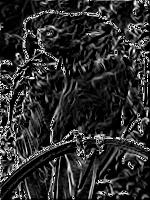
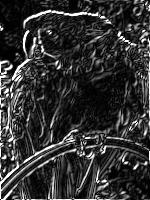
bug fix kernel with negative values

diff --git a/edge detect/edge_detect.py b/edge detect/edge_detect.py
@@ -4,18 +4,25 @@ import numpy as np
 
 assert(len(sys.argv) > 1), "Pass the name of the image as an argument"
 
-""" works only for grayscale images """
-""" edges are most visible in grayscale images """
-def getNewPixelValue(im, pixel_y, pixel_x, kernel):
-    pixel_val = 0
+"""
+works only for grayscale images
+edges are most visible in grayscale images
+"""
+def getNewPixelValue(im, pixel_y, pixel_x):
+    horiz = [[-1, -2, -1], [0, 0, 0], [1, 2, 1]]
+    vert = [[-1, 0, 1], [-2, 0, 2], [-1, 0, 1]]
+    horiz_edge = 0
+    vert_edge = 0
 
     for i in range(-1, 2, 1):
         for j in range(-1, 2, 1):
-            if pixel_x + j < 0 or pixel_y + i < 0:
-                pass
-            elif (pixel_x + j < im.shape[1] - 1 and pixel_y + i < im.shape[0] - 1):
-               pixel_val += im[pixel_y + i][pixel_x + j] * kernel[i + 1][j + 1]
-    return max(pixel_val, 0)
+            x = pixel_x + j
+            y = pixel_y + i
+            if x >= 0 and y >= 0 and x <= im.shape[1] - 1 and y <= im.shape[0] - 1:
+               horiz_edge += im[y][x] * horiz[i + 1][j + 1]
+               vert_edge += im[y][x] * vert[i + 1][j + 1]
+    newVal = abs(horiz_edge + vert_edge) / 2
+    return newVal if newVal <= 255 else 255
 
 
 im = Image.open(sys.argv[1])
@@ -26,10 +33,7 @@ blurred_im = np.empty(im_matrix.shape)
 
 for i in range(im_matrix.shape[0]):
     for j in range(im_matrix.shape[1]):
-        horiz = getNewPixelValue(im_matrix, i, j, [[-1, -2, -1], [0, 0, 0], [1, 2, 1]])
-        vert = getNewPixelValue(im_matrix, i, j, [[-1, 0, 1], [-2, 0, 2], [-1, 0, 1]])
-        blurred_im[i][j] = max(horiz, vert)
-        
+        blurred_im[i][j] = getNewPixelValue(im_matrix, i, j)
 
 output = Image.fromarray(np.uint8(blurred_im))
 output.show()

diff --git a/sharpen/sharpen.py b/sharpen/sharpen.py
@@ -5,17 +5,17 @@ import numpy as np
 assert(len(sys.argv) > 1), "Pass the name of the image as an argument"
 
 """ works only for grayscale images """
-def getNewPixelValue(im, pixel_y, pixel_x, kernel):
+def getNewPixelValue(im, pixel_y, pixel_x):
+    kernel = [[-1, -1, -1], [-1, 9, -1], [-1, -1, -1]]
     pixel_val = 0
 
     for i in range(-1, 2, 1):
         for j in range(-1, 2, 1):
-            if pixel_x + j < 0 or pixel_y + i < 0:
-                continue
-            if (max(pixel_x + j, im.shape[1] - 1) != pixel_x + j
-                and max(pixel_y + i, im.shape[0] - 1) != pixel_y + i):
-               pixel_val += im[pixel_y + i][pixel_x + j] * kernel[i + 1][j + 1]
-    return max(pixel_val, 0)
+            x = pixel_x + j
+            y = pixel_y + i
+            if x >= 0 and y >= 0 and x <= im.shape[1] - 1 and y <= im.shape[0] - 1:
+                pixel_val += im[y][x] * kernel[i + 1][j + 1]
+    return abs(pixel_val) if abs(pixel_val) <= 255 else 255
 
 
 im = Image.open(sys.argv[1])
@@ -26,9 +26,8 @@ blurred_im = np.empty(im_matrix.shape)
 
 for i in range(im_matrix.shape[0]):
     for j in range(im_matrix.shape[1]):
-        blurred_im[i][j] = getNewPixelValue(im_matrix, i, j, [[-1, -1, -1], [-1, 9, -1], [-1, -1, -1]])
+        blurred_im[i][j] = getNewPixelValue(im_matrix, i, j)
         
-
 output = Image.fromarray(np.uint8(blurred_im))
 output.show()
 output.save("output.jpg")

diff --git a/emboss/emboss.py b/emboss/emboss.py
@@ -5,16 +5,17 @@ import numpy as np
 assert(len(sys.argv) > 1), "Pass the name of the image as an argument"
 
 """ works only for grayscale images """
-def getNewPixelValue(im, pixel_y, pixel_x, kernel):
+def getNewPixelValue(im, pixel_y, pixel_x):
+    kernel = [[2, 0, 0], [0, -1, 0], [0, 0, -1]]
     pixel_val = 0
 
     for i in range(-1, 2, 1):
         for j in range(-1, 2, 1):
-            if pixel_x + j < 0 or pixel_y + i < 0:
-                pass
-            elif (pixel_x + j < im.shape[1] - 1 and pixel_y + i < im.shape[0] - 1):
-               pixel_val += im[pixel_y + i][pixel_x + j] * kernel[i + 1][j + 1]
-    return max(pixel_val, 0)
+            x = pixel_x + j
+            y = pixel_y + i
+            if x >= 0 and y >= 0 and x <= im.shape[1] - 1 and y <= im.shape[0] - 1:
+                pixel_val += im[y][x] * kernel[i + 1][j + 1]
+    return abs(pixel_val) if abs(pixel_val) <= 255 else 255
 
 
 im = Image.open(sys.argv[1])
@@ -25,9 +26,8 @@ blurred_im = np.empty(im_matrix.shape)
 
 for i in range(im_matrix.shape[0]):
     for j in range(im_matrix.shape[1]):
-        blurred_im[i][j] = getNewPixelValue(im_matrix, i, j, [[2, 0, 0], [0, -1, 0], [0, 0, -1]])
+        blurred_im[i][j] = getNewPixelValue(im_matrix, i, j)
         
-
 output = Image.fromarray(np.uint8(blurred_im))
 output.show()
 output.save("output.jpg")
